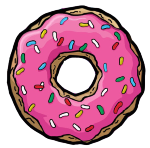
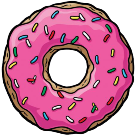
Mise en place du menu nav déroulant + donnuts anim

diff --git a/project/www/src/css/style.css b/project/www/src/css/style.css
@@ -26,10 +26,11 @@ header{
     align-self: end;
 }
 
-.donnut{
+#donnut{
     min-width: 40px;
     margin-right: 3%;
     width: 7%;
+    cursor: pointer;
 }
 
 header h1{
@@ -41,12 +42,97 @@ header h1{
     font-weight: 500;
 }
 
+#donnut img:last-of-type{
+    display: none;
+}
+
 /* SECTION */
 
 section{
     background: url("../img/background-sky.webp");
     background-size: cover;
-    height: 100px;
+    height: 400px;
+    position: relative;
+}
+
+nav{
+    position: absolute;
+    display: flex;
+    flex-direction: column;
+    right: 0;
+    display: none;
+    margin-top: 400px;
+    z-index: 10;
+}
+
+button{
+    background-color:#424F46;
+    color:#FFF500;
+    padding: 10px 45px;
+    position: relative;
+}
+
+#checkbox{
+    display: none;
+}
+
+#checkbox:checked + #donnut > #d2{
+    display: block;
+}
+
+#checkbox:checked + #donnut > #d1{
+    display: none;
+}
+
+#checkbox:checked ~ nav{
+    display: flex;
+}
+
+/* ICONES NAV */
+
+button:first-of-type::after{
+    content: "";
+    position: absolute;
+    width: 20px;
+    height: 20px;
+    left: 10px;
+    background-image: url(../img/login.png)
+}
+
+button:nth-of-type(2)::after{
+    content: "";
+    position: absolute;
+    width: 20px;
+    height: 20px;
+    left: 10px;
+    background-image: url(../img/help.png)
+}
+
+button:nth-of-type(3)::after{
+    content: "";
+    position: absolute;
+    width: 20px;
+    height: 20px;
+    left: 10px;
+    background-image: url(../img/expo.png)
+}
+
+button:nth-of-type(4)::after{
+    content: "";
+    position: absolute;
+    width: 20px;
+    height: 20px;
+    left: 10px;
+    background-image: url(../img/musee.png)
+}
+
+button:last-of-type::after{
+    content: "";
+    position: absolute;
+    width: 20px;
+    height: 20px;
+    left: 10px;
+    background-image: url(../img/map.png)
 }
 
 /* FOOTER */

diff --git a/project/www/index.html b/project/www/index.html
@@ -13,16 +13,27 @@
 </head>
 <body>
     <header>
+
         <div class="hommerheader">
             <img src="src/img/hommer_content.png" alt="Hommer joyeux">
         </div>
         <h1> Office du tourisme de Springfield </h1>
-        <div class="donnut">
-            <img src="src/img/donnuts.png" alt="Un donnuts">
-        </div>
+        <input type="checkbox" id="checkbox">
+        <label id="donnut" for="checkbox">
+            <img id="d1" src="src/img/donnuts.png" alt="Un donnuts">
+            <img id="d2" src="src/img/donnuts_2.png" alt="Un donnuts croqué">
+        </label>
+        <nav>
+            <button>Connexion</button>
+            <button>Aide</button>
+            <button>Expositions</button>
+            <button>Musée</button>
+            <button>Lieux</button>
+        </nav>
     </header>
 
     <section>
+
     </section>
 
     <footer>

diff --git a/project/www/src/css/normalizer.css b/project/www/src/css/normalizer.css
@@ -55,10 +55,10 @@ picture {
 }
 
 /* Inherit fonts for inputs and buttons */
-input,
 button,
 textarea,
 select {
     font: inherit;
     padding: 0;
+
 }
